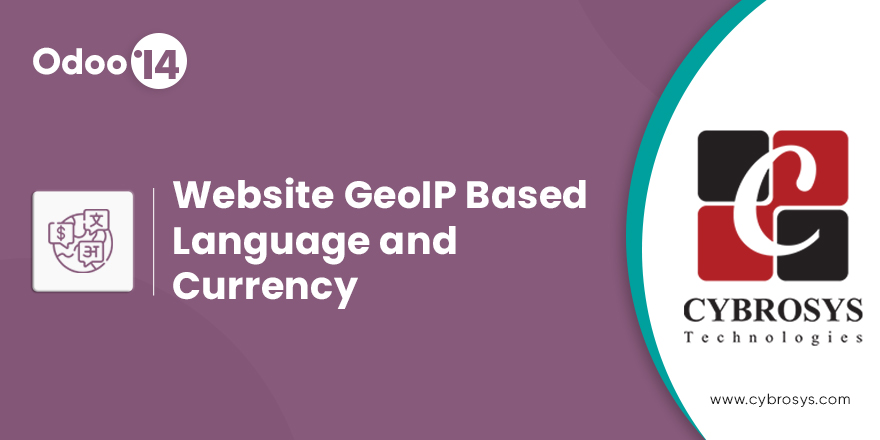
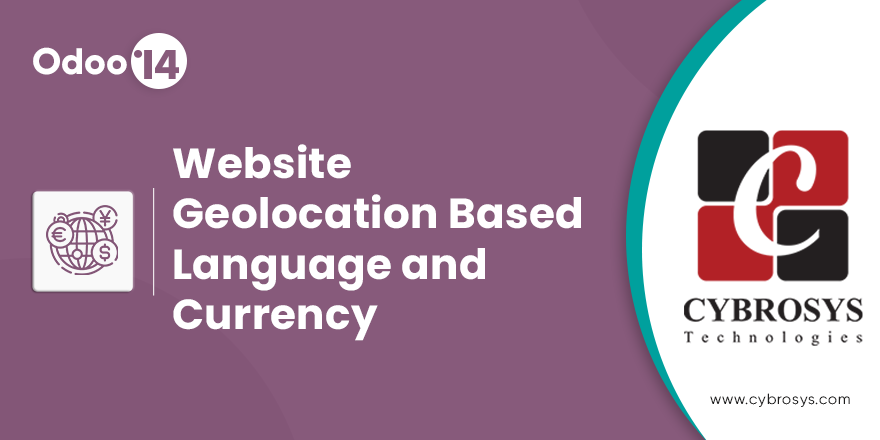
Aug 31: [FIX] Bug Fixed 'geoip_website_redirect'

Changed region(s): [[0.1841, 0.325, 0.675, 0.7682], [0.0307, 0.4727, 0.1534, 0.6205]]

diff --git a/geoip_website_redirect/static/description/index.html b/geoip_website_redirect/static/description/index.html
@@ -26,9 +26,9 @@
         <div class="row">
             <div class="col-sm-12 col-md-12 col-lg-12">
                 <h1 style="color: #FFFFFF; font-weight: bolder; font-size: 50px; text-align: center; margin-top: 50px;">
-                    Website GeoIP Based<br> Language And Currency</h1>
+                    Website Geolocation Based<br> Language And Currency</h1>
                 <p style="color:#FFFFFF; padding: 8px 15px; text-align: center; font-size: 24px;">
-                    Change Language And Currency Based On Country Of User In Odoo 14</p>
+                    Change Language and Currency Based on the User's Country in Odoo 14</p>
                 <!-- END OF APP HERO -->
                 <img src="assets/screenshots/hero.gif"
                      style="width: 75%; height: auto; position: absolute; margin-left: auto; margin-right: auto; top: 86%; left: 12%; right: auto;"/>
@@ -113,7 +113,7 @@
 <div class="row"
      style="font-family: 'Montserrat', sans-serif; font-weight: 400; font-size: 14px; line-height: 200%;">
     <div class="col-sm-12 py-4">
-        Website GeoIP Based Language and Currency is an application which is
+        Website Geolocation Based Language and Currency is an application which is
         fetch the IP address
         of customer's device and allow them to see website in their native
         language and

diff --git a/geoip_website_redirect/controllers/geoip_website_redirect.py b/geoip_website_redirect/controllers/geoip_website_redirect.py
@@ -27,7 +27,7 @@ from odoo.exceptions import UserError
 from odoo.http import request
 
 
-class GeoIP(Home):
+class Geolocation(Home):
     """ Controller for selecting login user's datas """
 
     def get_location(self, ip_address):
@@ -49,7 +49,7 @@ class GeoIP(Home):
     @http.route()
     def web_login(self, redirect=None, **kw):
         """ On login access customer country information """
-        result = super(GeoIP, self).web_login(redirect=redirect, **kw)
+        result = super(Geolocation, self).web_login(redirect=redirect, **kw)
         request.env.user.write({'ip_address': kw.get('user_ip')})
         datas = self.get_location(kw.get('user_ip'))
         if datas:

diff --git a/geoip_website_redirect/__manifest__.py b/geoip_website_redirect/__manifest__.py
@@ -20,10 +20,10 @@
 #
 #############################################################################
 {
-    'name': 'Website GeoIP Based Language and Currency',
+    'name': 'Website Geolocation Based Language and Currency',
     'version': '14.0.1.0.0',
     'category': 'eCommerce, Productivity',
-    'summary': """Website GeoIP Based Language and Currency Application
+    'summary': """Website Geolocation Based Language and Currency Application
      for Odoo 14""",
     'description': """The module helps you to map currency and language
      based on Customer's IP address""",

diff --git a/geoip_website_redirect/README.rst b/geoip_website_redirect/README.rst
@@ -2,8 +2,8 @@
     :target: https://www.gnu.org/licenses/lgpl-3.0-standalone.html
     :alt: License: LGPL-3
 
-Website GeoIP Based Language and Currency
-=========================================
+Website Geolocation Based Language and Currency
+==============================================
 This module allow to view the website content according to login user's country details
 
 Company

diff --git a/geoip_website_redirect/doc/RELEASE_NOTES.md b/geoip_website_redirect/doc/RELEASE_NOTES.md
@@ -4,5 +4,5 @@
 #### Version 14.0.1.0.0
 #### ADD
 
-- Initial commit for Website GeoIP Based Language and Currency
+- Initial commit for Website Geolocation Based Language and Currency
 
